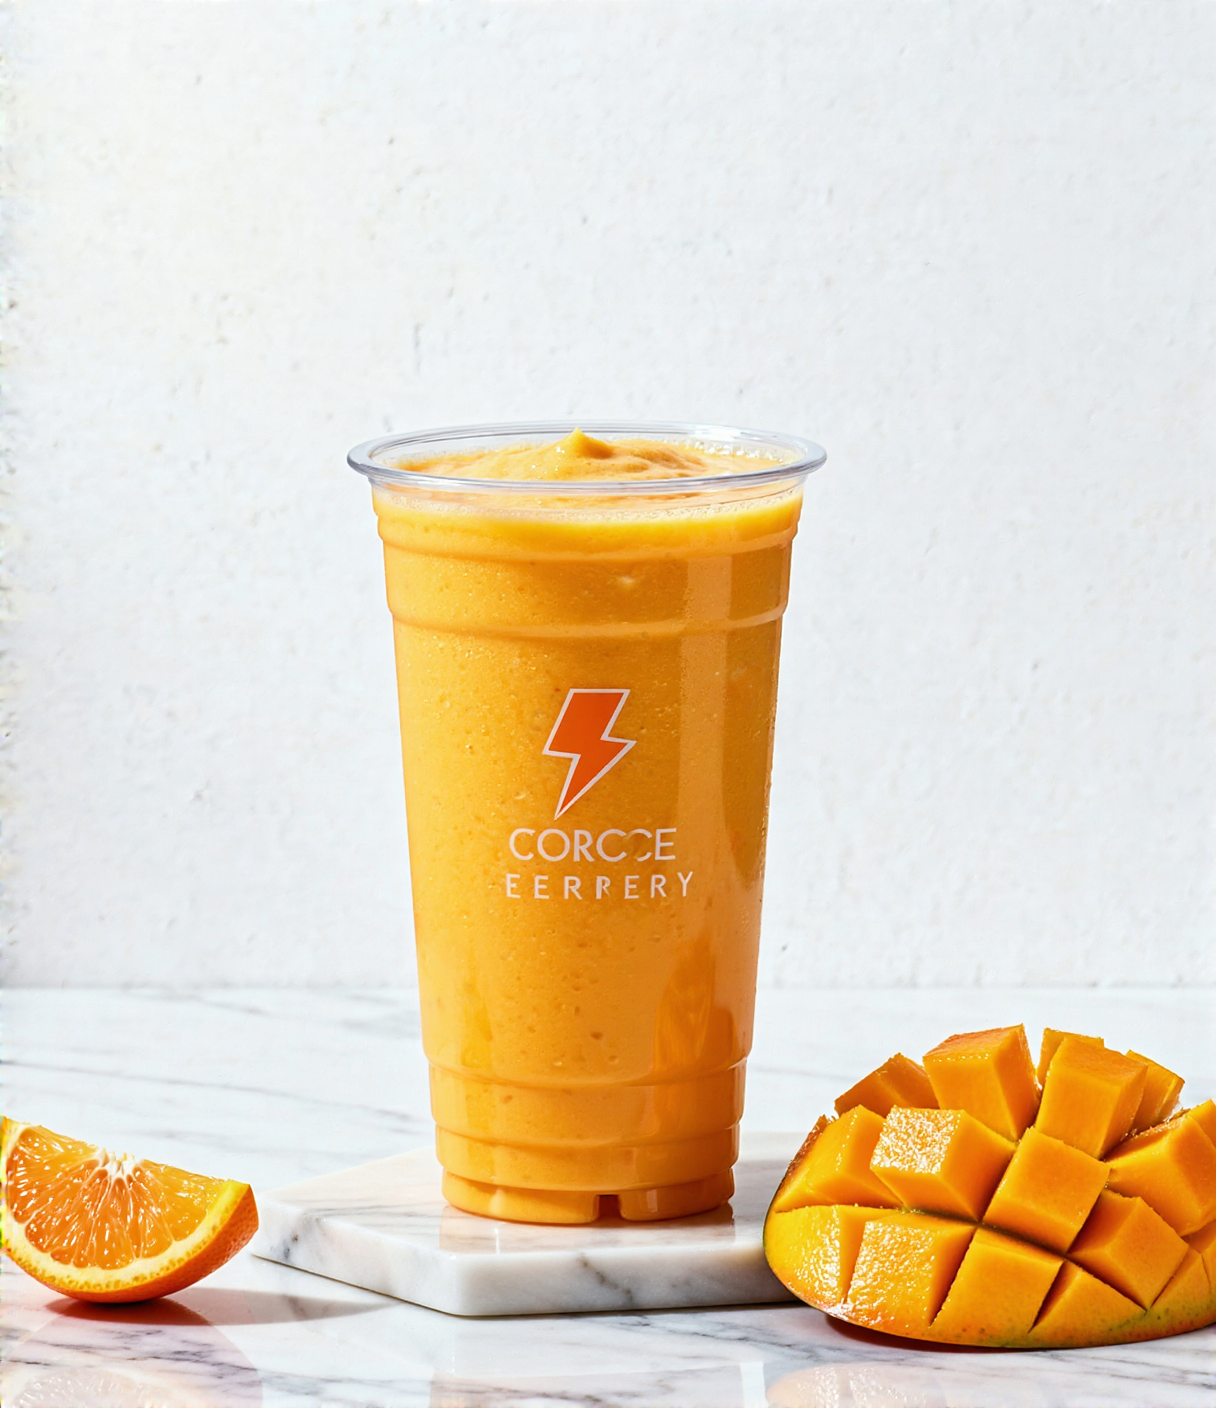
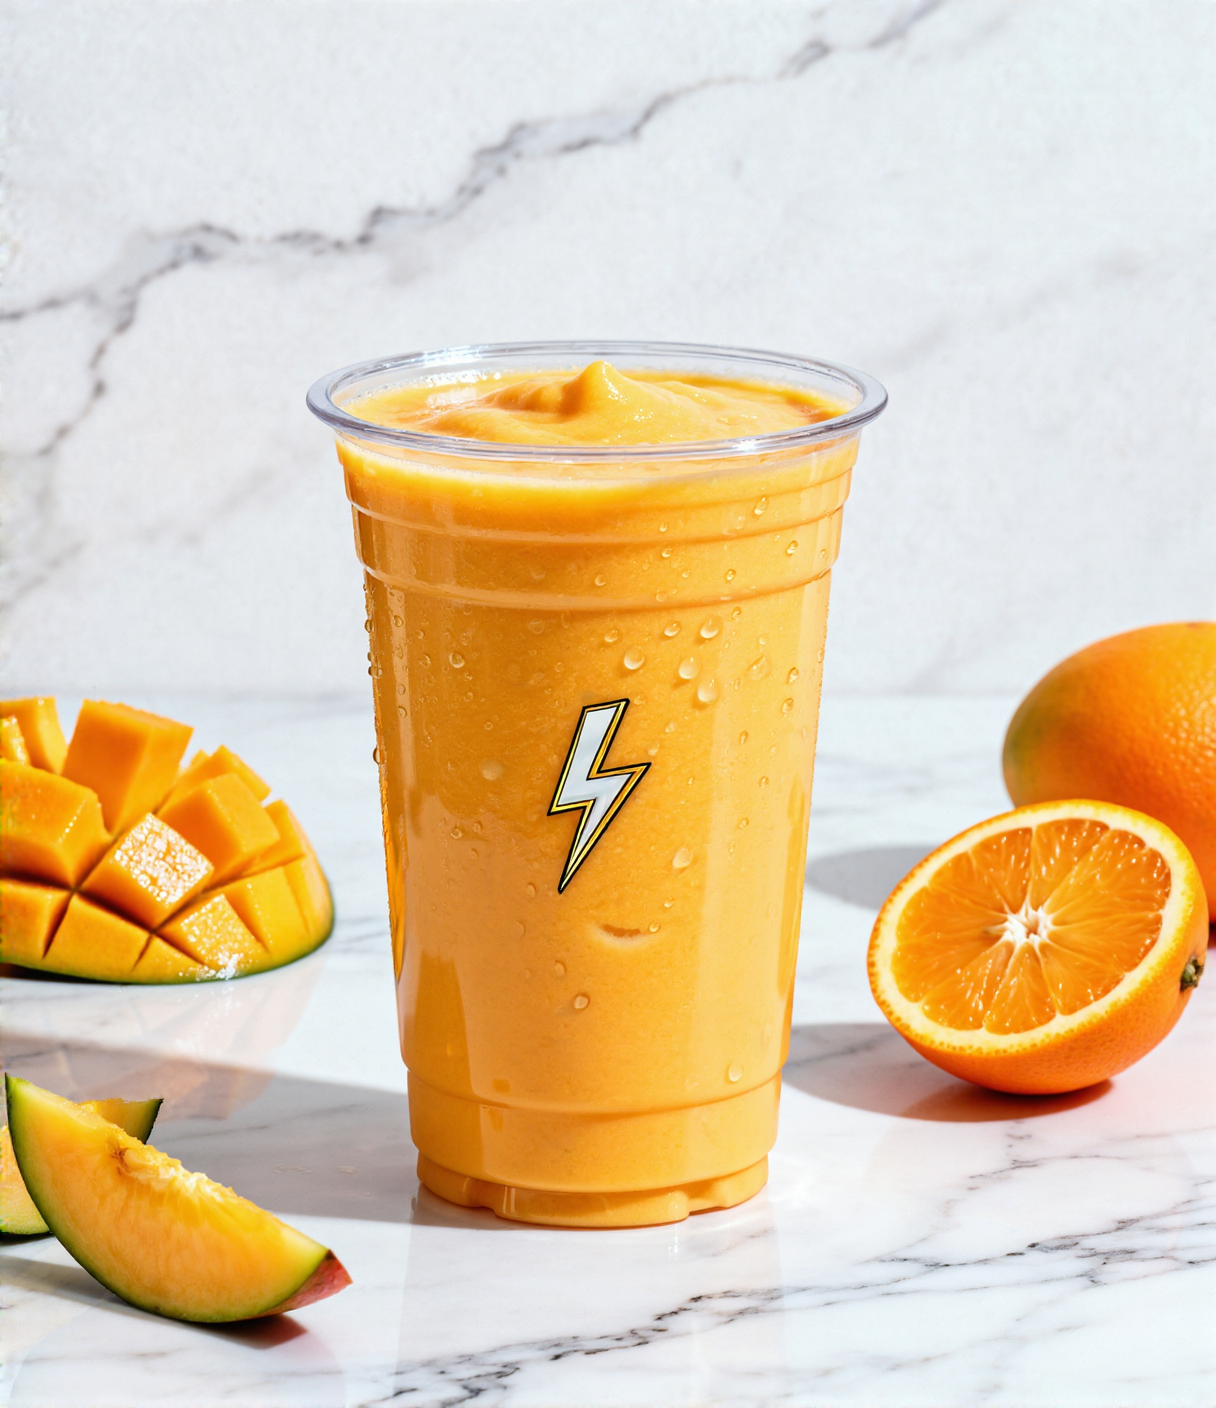
产品图片优化：干净无乱码，HTML配方标签覆盖层（闪电+产品名+成分pills）

diff --git a/index.html b/index.html
@@ -783,6 +783,68 @@ svg.chart{display:block;overflow:visible;}
 }
 .tc-tl-desc { font-size: 12px; color: var(--tc-muted); line-height: 1.6; }
 
+
+/* ── Product Recipe Label Overlay ── */
+.tc-img-wrap {
+  position: relative;
+  overflow: hidden;
+  height: 100%;
+}
+.tc-img-wrap img {
+  width: 100%;
+  height: 100%;
+  object-fit: cover;
+  display: block;
+}
+.tc-recipe-label {
+  position: absolute;
+  bottom: 24px;
+  left: 50%;
+  transform: translateX(-50%);
+  background: rgba(255,255,255,0.92);
+  backdrop-filter: blur(12px);
+  border-radius: 12px;
+  padding: 14px 20px;
+  min-width: 200px;
+  max-width: 240px;
+  box-shadow: 0 8px 32px rgba(0,0,0,0.12);
+  text-align: center;
+}
+.tc-rl-icon {
+  font-size: 18px;
+  margin-bottom: 6px;
+  display: block;
+}
+.tc-rl-name {
+  font-size: 11px;
+  font-weight: 700;
+  letter-spacing: 0.14em;
+  text-transform: uppercase;
+  margin-bottom: 2px;
+}
+.tc-rl-sub {
+  font-size: 9px;
+  font-weight: 400;
+  letter-spacing: 0.08em;
+  color: #999;
+  text-transform: uppercase;
+  margin-bottom: 8px;
+}
+.tc-rl-pills {
+  display: flex;
+  flex-wrap: wrap;
+  gap: 4px;
+  justify-content: center;
+}
+.tc-rl-pill {
+  font-size: 9px;
+  font-weight: 600;
+  padding: 3px 8px;
+  border-radius: 20px;
+  letter-spacing: 0.04em;
+  white-space: nowrap;
+}
+
 /* ── Full-width product section ── */
 .tc-products-section {
   background: #fff;
@@ -1654,9 +1716,20 @@ function switchTab(tab){
 
   <!-- P1: RECOVERY -->
   <div style="display:grid;grid-template-columns:480px 1fr;min-height:500px;border-bottom:1px solid #f0f0f0;">
-    <div style="position:relative;overflow:hidden;background:#1a0a2e;">
-      <img src="assets/torce_p1.png" style="width:100%;height:100%;object-fit:cover;display:block;">
+    <div class="tc-img-wrap" style="background:#1a0a2e;min-height:500px;">
+      <img src="assets/torce_p1.png" alt="RECOVERY">
       <div class="tc-product-badge" style="background:#7B2FBE;">运动恢复</div>
+      <div class="tc-recipe-label">
+        <span class="tc-rl-icon" style="color:#7B2FBE;">⚡</span>
+        <div class="tc-rl-name" style="color:#7B2FBE;">RECOVERY</div>
+        <div class="tc-rl-sub">Acai Blueberry</div>
+        <div class="tc-rl-pills">
+          <span class="tc-rl-pill" style="background:#f3eaff;color:#7B2FBE;">BCAA 3g</span>
+          <span class="tc-rl-pill" style="background:#f3eaff;color:#7B2FBE;">Protein 20g</span>
+          <span class="tc-rl-pill" style="background:#f3eaff;color:#7B2FBE;">Antioxidants 100mg+</span>
+          <span class="tc-rl-pill" style="background:#f3eaff;color:#7B2FBE;">0 Added Sugar</span>
+        </div>
+      </div>
     </div>
     <div class="tc-product-info">
       <div>
@@ -1737,17 +1810,39 @@ function switchTab(tab){
         <div class="tc-price-box"><div class="tc-price-label">杯型设计</div><div class="tc-price-val" style="font-size:13px;color:#666;">半透明质感杯</div></div>
       </div>
     </div>
-    <div style="position:relative;overflow:hidden;background:#fff8e7;">
-      <img src="assets/torce_p2.png" style="width:100%;height:100%;object-fit:cover;display:block;">
+    <div class="tc-img-wrap" style="background:#fff8e7;min-height:500px;">
+      <img src="assets/torce_p2.png" alt="PERFORMANCE">
       <div class="tc-product-badge" style="background:#F59E0B;">运动表现</div>
+      <div class="tc-recipe-label">
+        <span class="tc-rl-icon" style="color:#F59E0B;">⚡</span>
+        <div class="tc-rl-name" style="color:#F59E0B;">PERFORMANCE</div>
+        <div class="tc-rl-sub">Mango Banana</div>
+        <div class="tc-rl-pills">
+          <span class="tc-rl-pill" style="background:#fff8e0;color:#F59E0B;">Creatine 3g</span>
+          <span class="tc-rl-pill" style="background:#fff8e0;color:#F59E0B;">Protein 20g</span>
+          <span class="tc-rl-pill" style="background:#fff8e0;color:#F59E0B;">Electrolytes 500mg+</span>
+          <span class="tc-rl-pill" style="background:#fff8e0;color:#F59E0B;">0 Added Sugar</span>
+        </div>
+      </div>
     </div>
   </div>
 
   <!-- P3: PROTEIN -->
   <div style="display:grid;grid-template-columns:480px 1fr;min-height:500px;border-bottom:1px solid #f0f0f0;">
-    <div style="position:relative;overflow:hidden;background:#f5f5f0;">
-      <img src="assets/torce_p3.png" style="width:100%;height:100%;object-fit:cover;display:block;">
+    <div class="tc-img-wrap" style="background:#f5f5f0;min-height:500px;">
+      <img src="assets/torce_p3.png" alt="PROTEIN">
       <div class="tc-product-badge" style="background:#6B4226;">高蛋白代餐</div>
+      <div class="tc-recipe-label">
+        <span class="tc-rl-icon" style="color:#6B4226;">⚡</span>
+        <div class="tc-rl-name" style="color:#6B4226;">PROTEIN</div>
+        <div class="tc-rl-sub">Vanilla Coconut</div>
+        <div class="tc-rl-pills">
+          <span class="tc-rl-pill" style="background:#f5ece5;color:#6B4226;">Whey Protein 25g</span>
+          <span class="tc-rl-pill" style="background:#f5ece5;color:#6B4226;">Chia Seeds 5g</span>
+          <span class="tc-rl-pill" style="background:#f5ece5;color:#6B4226;">Coconut MCT 1000mg</span>
+          <span class="tc-rl-pill" style="background:#f5ece5;color:#6B4226;">0 Added Sugar</span>
+        </div>
+      </div>
     </div>
     <div class="tc-product-info">
       <div>
@@ -1826,17 +1921,39 @@ function switchTab(tab){
         <div class="tc-price-box"><div class="tc-price-label">杯型设计</div><div class="tc-price-val" style="font-size:13px;color:#666;">Neon Glossy杯</div></div>
       </div>
     </div>
-    <div style="position:relative;overflow:hidden;background:#0a1f0a;">
-      <img src="assets/torce_p4.png" style="width:100%;height:100%;object-fit:cover;display:block;">
+    <div class="tc-img-wrap" style="background:#0a1f0a;min-height:500px;">
+      <img src="assets/torce_p4.png" alt="DETOX">
       <div class="tc-product-badge" style="background:#00C853;color:#000;">⭐ 标志产品</div>
+      <div class="tc-recipe-label">
+        <span class="tc-rl-icon" style="color:#00C853;">⚡</span>
+        <div class="tc-rl-name" style="color:#00C853;">DETOX</div>
+        <div class="tc-rl-sub">Green Apple Spirulina</div>
+        <div class="tc-rl-pills">
+          <span class="tc-rl-pill" style="background:#e6fff0;color:#00a040;">Spirulina 1g</span>
+          <span class="tc-rl-pill" style="background:#e6fff0;color:#00a040;">Chlorophyll 120mg+</span>
+          <span class="tc-rl-pill" style="background:#e6fff0;color:#00a040;">Cleanse Blend 1000mg</span>
+          <span class="tc-rl-pill" style="background:#e6fff0;color:#00a040;">0 Added Sugar</span>
+        </div>
+      </div>
     </div>
   </div>
 
   <!-- P5: ENERGY -->
   <div style="display:grid;grid-template-columns:480px 1fr;min-height:500px;border-bottom:1px solid #f0f0f0;">
-    <div style="position:relative;overflow:hidden;background:#fff0f0;">
-      <img src="assets/torce_p5.png" style="width:100%;height:100%;object-fit:cover;display:block;">
+    <div class="tc-img-wrap" style="background:#fff0f0;min-height:500px;">
+      <img src="assets/torce_p5.png" alt="ENERGY">
       <div class="tc-product-badge" style="background:#EF4444;">天然提神</div>
+      <div class="tc-recipe-label">
+        <span class="tc-rl-icon" style="color:#EF4444;">⚡</span>
+        <div class="tc-rl-name" style="color:#EF4444;">ENERGY</div>
+        <div class="tc-rl-sub">Mango Pineapple</div>
+        <div class="tc-rl-pills">
+          <span class="tc-rl-pill" style="background:#fff0f0;color:#EF4444;">Caffeine 150mg</span>
+          <span class="tc-rl-pill" style="background:#fff0f0;color:#EF4444;">Vitamin C 100%DV</span>
+          <span class="tc-rl-pill" style="background:#fff0f0;color:#EF4444;">Electrolytes 500mg+</span>
+          <span class="tc-rl-pill" style="background:#fff0f0;color:#EF4444;">0 Added Sugar</span>
+        </div>
+      </div>
     </div>
     <div class="tc-product-info">
       <div>
@@ -1914,9 +2031,20 @@ function switchTab(tab){
         <div class="tc-price-box"><div class="tc-price-label">杯型设计</div><div class="tc-price-val" style="font-size:13px;color:#666;">Matte雾面杯</div></div>
       </div>
     </div>
-    <div style="position:relative;overflow:hidden;background:#e8ede8;">
-      <img src="assets/torce_p6.png" style="width:100%;height:100%;object-fit:cover;display:block;">
+    <div class="tc-img-wrap" style="background:#e8ede8;min-height:500px;">
+      <img src="assets/torce_p6.png" alt="L-CARNITINE">
       <div class="tc-product-badge" style="background:#5D7A5D;">燃脂辅助</div>
+      <div class="tc-recipe-label">
+        <span class="tc-rl-icon" style="color:#5D7A5D;">⚡</span>
+        <div class="tc-rl-name" style="color:#5D7A5D;">L-CARNITINE</div>
+        <div class="tc-rl-sub">Matcha Oat</div>
+        <div class="tc-rl-pills">
+          <span class="tc-rl-pill" style="background:#eef3ee;color:#5D7A5D;">L-Carnitine 1500mg</span>
+          <span class="tc-rl-pill" style="background:#eef3ee;color:#5D7A5D;">Green Tea 100mg+</span>
+          <span class="tc-rl-pill" style="background:#eef3ee;color:#5D7A5D;">Electrolytes 500mg+</span>
+          <span class="tc-rl-pill" style="background:#eef3ee;color:#5D7A5D;">0 Added Sugar</span>
+        </div>
+      </div>
     </div>
   </div>
 
